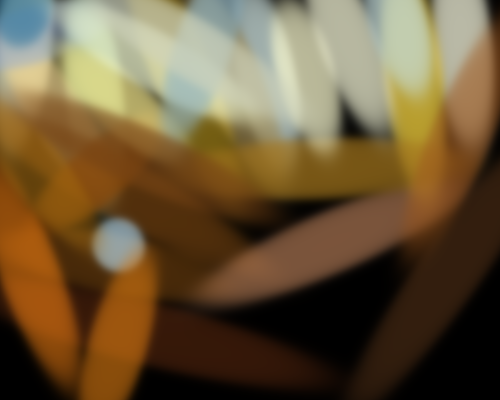
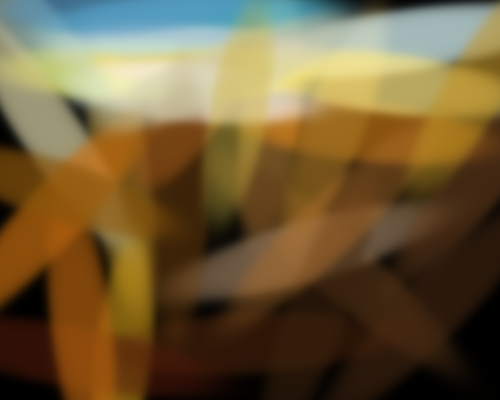
Ajustes finales.

diff --git a/src/motor_optimizacion.py b/src/motor_optimizacion.py
@@ -1,10 +1,11 @@
 import torch
 import torch.optim as optim
+from torch.amp import autocast, GradScaler
 
 class OptimizadorStrokes:
     """
     Controla el bucle de optimización para ajustar los parámetros de un lote 
-    de K pinceladas minimizando la pérdida global.
+    de K pinceladas minimizando la pérdida global mediante Precisión Mixta (AMP).
     """
     def __init__(self, imagen_objetivo, metrica_perdida, dispositivo=None):
         if dispositivo is None:
@@ -14,6 +15,10 @@ class OptimizadorStrokes:
             
         self.imagen_objetivo = imagen_objetivo.to(self.dispositivo)
         self.metrica_perdida = metrica_perdida.to(self.dispositivo)
+        
+        # Inicializador del escalador de gradientes para evitar el desbordamiento a cero en float16
+        self.es_cuda = self.dispositivo.type == 'cuda'
+        self.scaler = GradScaler(enabled=self.es_cuda)
 
     def optimizar_lote(self, lote_pinceladas, lienzo_actual, cantidad_pinceladas, iteraciones=50, lr=0.1):
         """
@@ -29,16 +34,18 @@ class OptimizadorStrokes:
         for _ in range(iteraciones):
             optimizador.zero_grad()
             
-            # Forward pass vectorial
-            lote_coloreado, lote_mascaras = lote_pinceladas.renderizar_lote(alto, ancho)
-            lienzo_propuesto = lote_pinceladas.componer_lienzo(lote_coloreado, lote_mascaras, lienzo_actual)
+            # Contexto AMP: Ejecuta el forward pass en precisión media (float16)
+            with autocast(device_type=self.dispositivo.type, enabled=self.es_cuda):
+                lote_coloreado, lote_mascaras = lote_pinceladas.renderizar_lote(alto, ancho)
+                lienzo_propuesto = lote_pinceladas.componer_lienzo(lote_coloreado, lote_mascaras, lienzo_actual)
+                
+                perdida, _ = self.metrica_perdida(self.imagen_objetivo, lienzo_propuesto, cantidad_pinceladas, lote_pinceladas)
             
-            # Cálculo de error global frente a la suma del lote
-            perdida, _ = self.metrica_perdida(self.imagen_objetivo, lienzo_propuesto, cantidad_pinceladas, lote_pinceladas)
+            # Backward pass escalado para mantener precisión numérica
+            self.scaler.scale(perdida).backward()
+            self.scaler.step(optimizador)
+            self.scaler.update()
             
-            # Backward pass 
-            perdida.backward()
-            optimizador.step()
             historial_perdida.append(perdida.item())
                 
             # Restricciones post-actualización
@@ -46,9 +53,16 @@ class OptimizadorStrokes:
                 lote_pinceladas.color_rgb.clamp_(0.0, 1.0)
                 lote_pinceladas.transparencia_alfa.clamp_(0.0, 1.0)
                 lote_pinceladas.tamano_radio.clamp_(min=1.0)
+                # Restricciones de figuras secundarias si aplican
+                if hasattr(lote_pinceladas, 'relacion_aspecto'):
+                    lote_pinceladas.relacion_aspecto.clamp_(min=0.1)
+                if hasattr(lote_pinceladas, 'longitud'):
+                    lote_pinceladas.longitud.clamp_(min=1.0)
 
         # Renderizado final con el grafo desconectado
-        lote_coloreado_final, lote_mascaras_final = lote_pinceladas.renderizar_lote(alto, ancho)
-        lienzo_final = lote_pinceladas.componer_lienzo(lote_coloreado_final, lote_mascaras_final, lienzo_actual)
+        # Se ejecuta fuera del contexto autocast para devolver float32 estándar al lienzo acumulado
+        with torch.no_grad():
+            lote_coloreado_final, lote_mascaras_final = lote_pinceladas.renderizar_lote(alto, ancho)
+            lienzo_final = lote_pinceladas.componer_lienzo(lote_coloreado_final, lote_mascaras_final, lienzo_actual)
         
         return lote_pinceladas, lienzo_final.detach(), historial_perdida

diff --git a/src/evaluador.py b/src/evaluador.py
@@ -40,11 +40,11 @@ def evaluar_resultados():
 
     # Diccionario con los nombres de los archivos generados por cada configuración
     archivos_prueba = {
-        "Config 1 (Circulo)": "data/Circulos_01/reconstruccion_1000.png",
-        "Config 2 (Elipse)": "data/elipse_02/reconstruccion_600.png",
-        "Config 3 (Gaussiana)": "data/gaussiana_01/reconstruccion_500.png",
-        "Config 4 (Rectangulo)": "data/rectangulo_01/reconstruccion_300.png",
-        "Config 5 (Capsula)": "data/capsula_01/reconstruccion_400.png"
+        "Config 1 (Circulo)": "data/Circulos_01/Circulos.png",
+        "Config 2 (Elipse)": "data/elipse_02/reconstruccion_900.png",
+        "Config 3 (Gaussiana)": "data/gaussiana_01/gaussiana.png",
+        "Config 4 (Rectangulo)": "data/rectangulo_01/reconstruccion_1000.png",
+        "Config 5 (Capsula)": "data/capsula_01/capsula.png"
     }
 
     print("-" * 80)

diff --git a/src/main.py b/src/main.py
@@ -59,17 +59,17 @@ def generar_lote_candidato(imagen_objetivo, lienzo_actual, alto, ancho, K):
 
 def orquestar_reconstruccion():
     CONFIG = {
-        "ruta_imagen": "data/pintura_proyecto_01.jpeg",
+        "ruta_imagen": "data/proyecto.jpg",
         "directorio_salida": "data/ejemplo_simple",
         "alto_resolucion": 400,
         "ancho_resolucion": 500,
-        "K_batch_size": 30,         # Pinceladas simultáneas
+        "K_batch_size": 40,         # Pinceladas simultáneas
         "total_strokes": 1000,      # Objetivo final
-        "iteraciones_por_lote": 50,
-        "learning_rate": 0.1,
-        "w_mse": 1.2,
-        "w_ssim": 0.8,
-        "w_cantidad": 0.002,
+        "iteraciones_por_lote": 40,
+        "learning_rate": 0.05,
+        "w_mse": 0.8,
+        "w_ssim": 1.2,
+        "w_cantidad": 0.001,
         "w_area": 0.0010
     }
 
